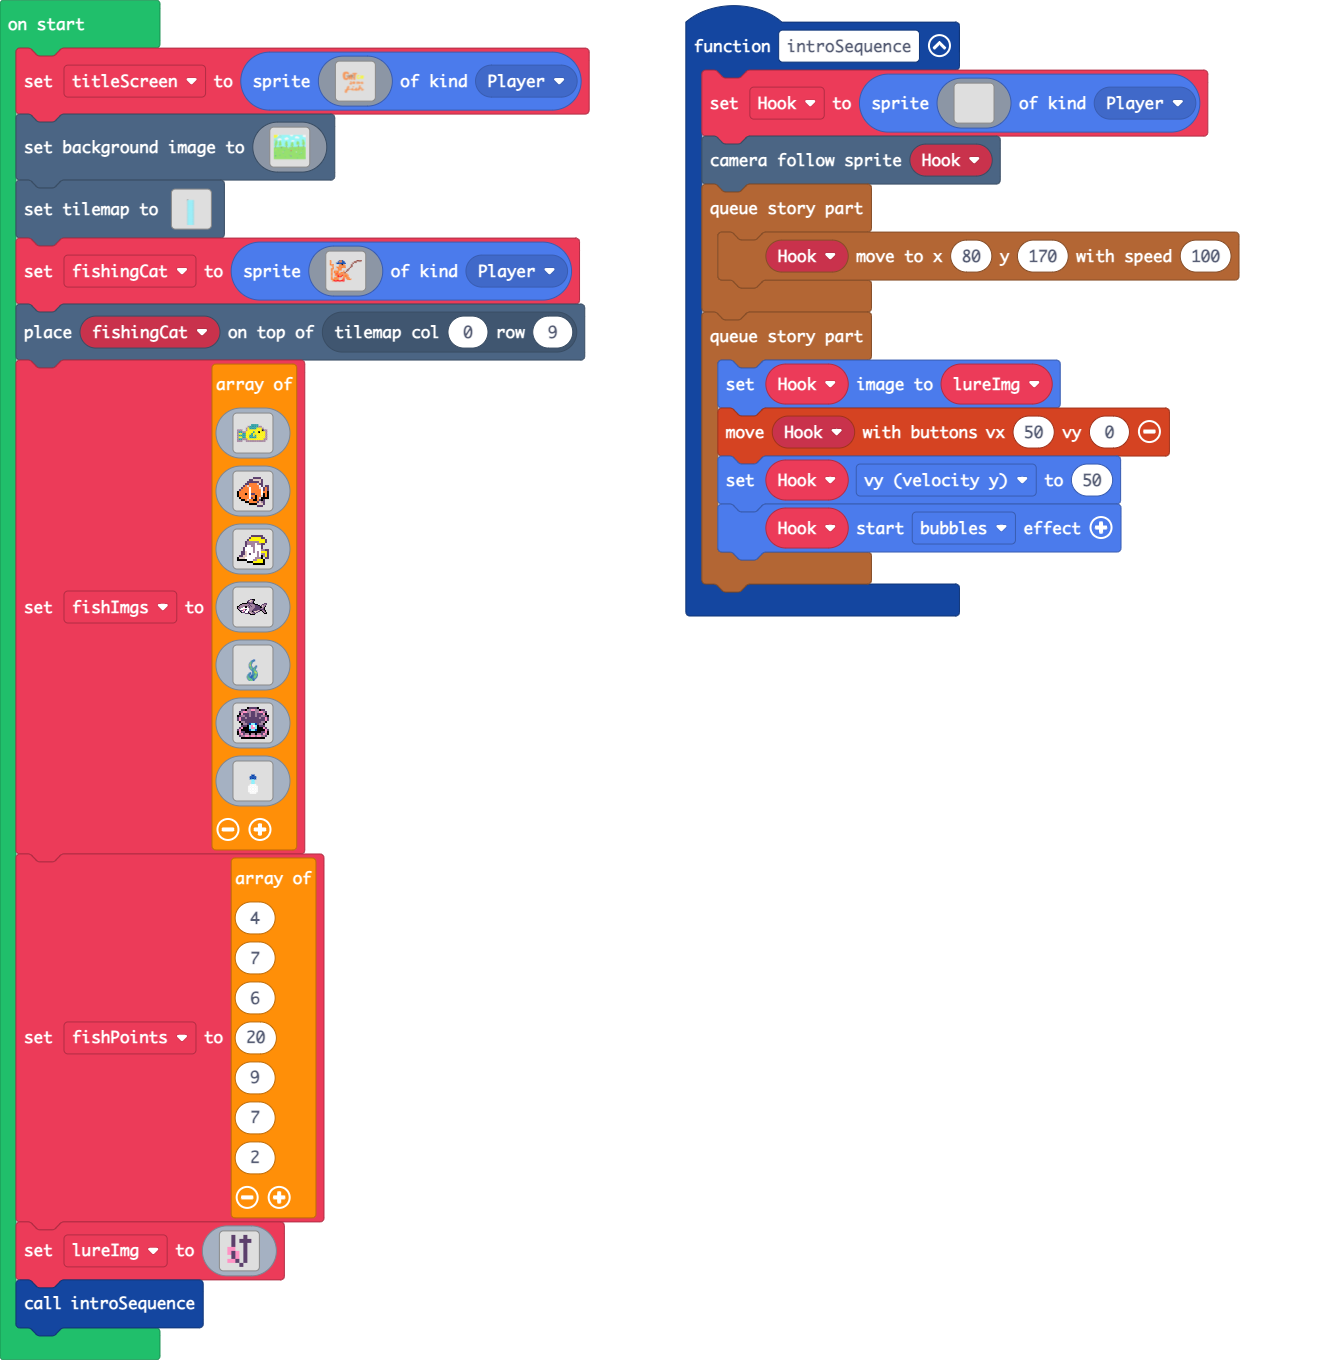
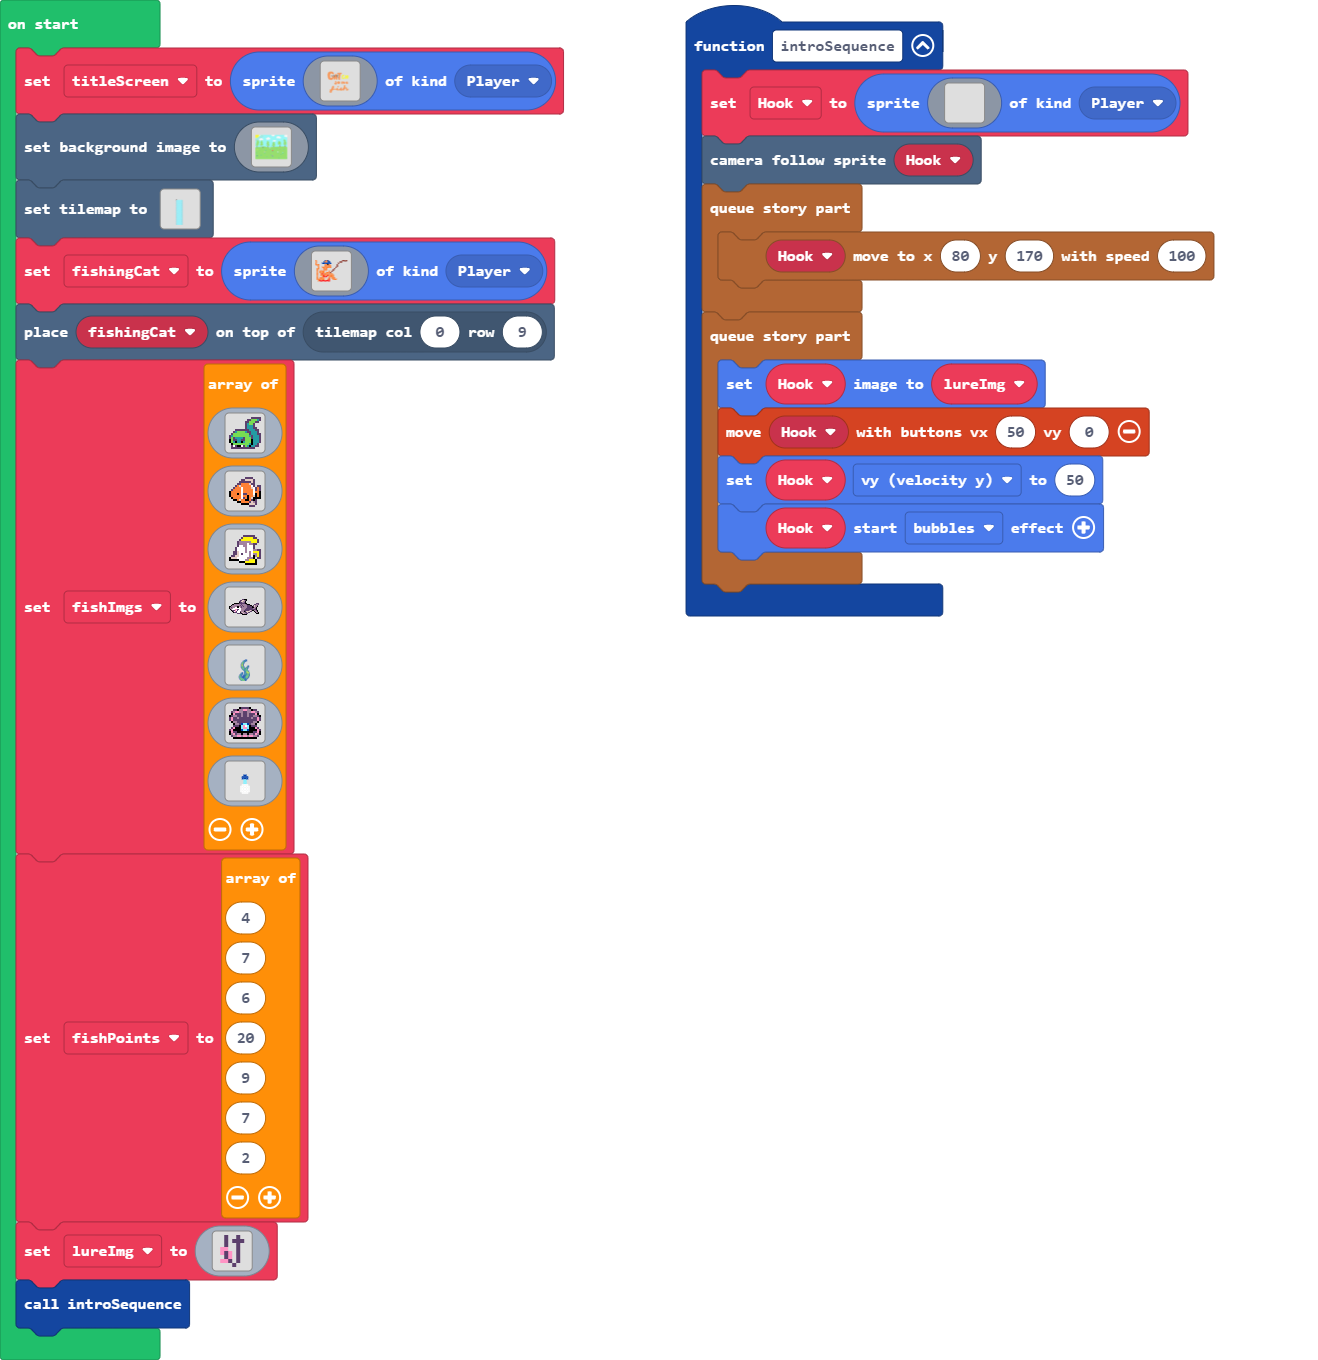
Update pxt.json, main.blocks, main.ts

diff --git a/main.ts b/main.ts
@@ -3,6 +3,10 @@ namespace SpriteKind {
     export const SwimmingFish = SpriteKind.create()
     export const CaughtFish = SpriteKind.create()
 }
+
+
+
+let canReel = false
 function introSequence () {
     Hook = sprites.create(img`
         . . . . . . . . . . . . . . . . 
@@ -31,7 +35,9 @@ function introSequence () {
         controller.moveSprite(Hook, 50, 0)
         Hook.vy = 50
         Hook.startEffect(effects.bubbles)
+    canReel = true
     })
+
 }
 let Hook: Sprite = null
 let lureImg: Image = null
@@ -301,24 +307,22 @@ let fishingCat = sprites.create(img`
 tiles.placeOnTile(fishingCat, tiles.getTileLocation(0, 9))
 let fishImgs = [
 img`
-    ..................
-    ..................
-    ..................
-    ..................
-    ........6666......
-    ......b66666bb....
-    .....b56666555b...
-    bbb..b55555555fbb.
-    b66bb5555655f555b.
-    b556655565555555b.
-    b666655665655555b.
-    b556655666655555b.
-    b66bbb555555555bb.
-    bbb..bbbbbbbbbbb..
-    ..................
-    ..................
-    ..................
-    ..................
+    . . . . . . . . . . . c c c c c 
+    . . . . . . . . . c c 7 7 7 6 c 
+    . . . . . . . . c c 7 7 7 c c . 
+    . . . . . . . . c 6 7 7 c . . . 
+    . . . . . . . . c 6 6 6 c . . . 
+    . . . . . . . . c 6 6 6 c c . . 
+    . . . c c c c c c c 6 6 6 c c . 
+    . . c 6 7 7 7 7 6 c c 6 6 6 c . 
+    . c 7 7 7 7 7 7 7 7 c 6 6 6 c c 
+    c 6 7 7 7 7 7 7 7 7 6 c 6 6 6 c 
+    c 7 c 6 6 6 6 c 7 7 7 c 6 6 6 c 
+    f 7 c c 6 6 c c 7 7 7 f 6 6 6 c 
+    f 7 6 f 6 6 f 6 7 7 7 f 6 6 6 c 
+    . f 7 7 7 7 7 7 7 7 6 f 6 6 c . 
+    . c 1 c f f 1 c 7 6 f 6 6 c c . 
+    . c c c c c c c c c c c c . . . 
     `,
 img`
     . . . . . . . . . . . . . . . . 
@@ -485,3 +489,20 @@ lureImg = img`
     . . . . c . . . 
     `
 introSequence()
+controller.A.onEvent(ControllerButtonEvent.Pressed, function() {
+    if (canReel) {
+    Hook.setVelocity(0, -100)
+
+    }
+})
+
+
+
+function spawnFish(numberOffFish: number) {
+for (let i = 0; i < numberOffFish; i++) {
+  let randomIndex = randint(0, fishImgs.length -1)
+  let newFish = sprites.create(fishImgs[randomIndex], SpriteKind.SwimmingFish)
+}
+
+}
+spawnFish(50)
